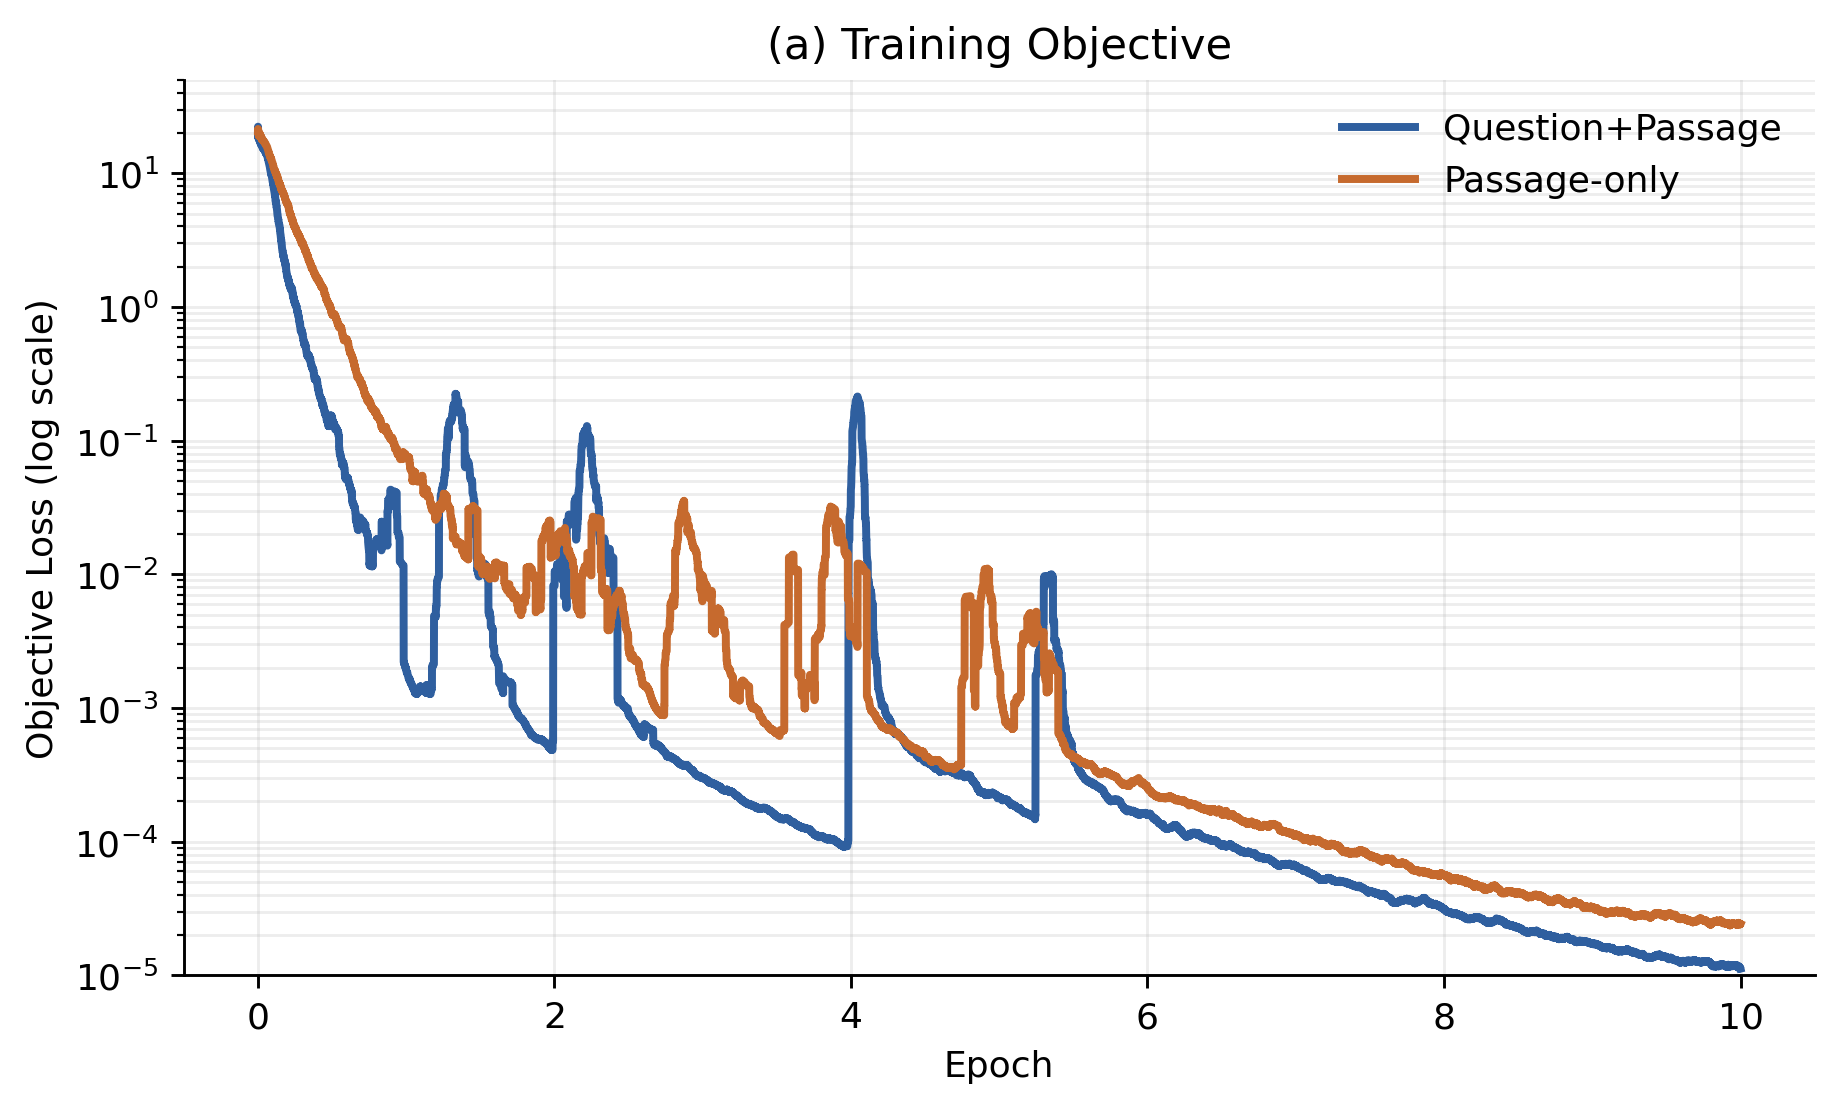
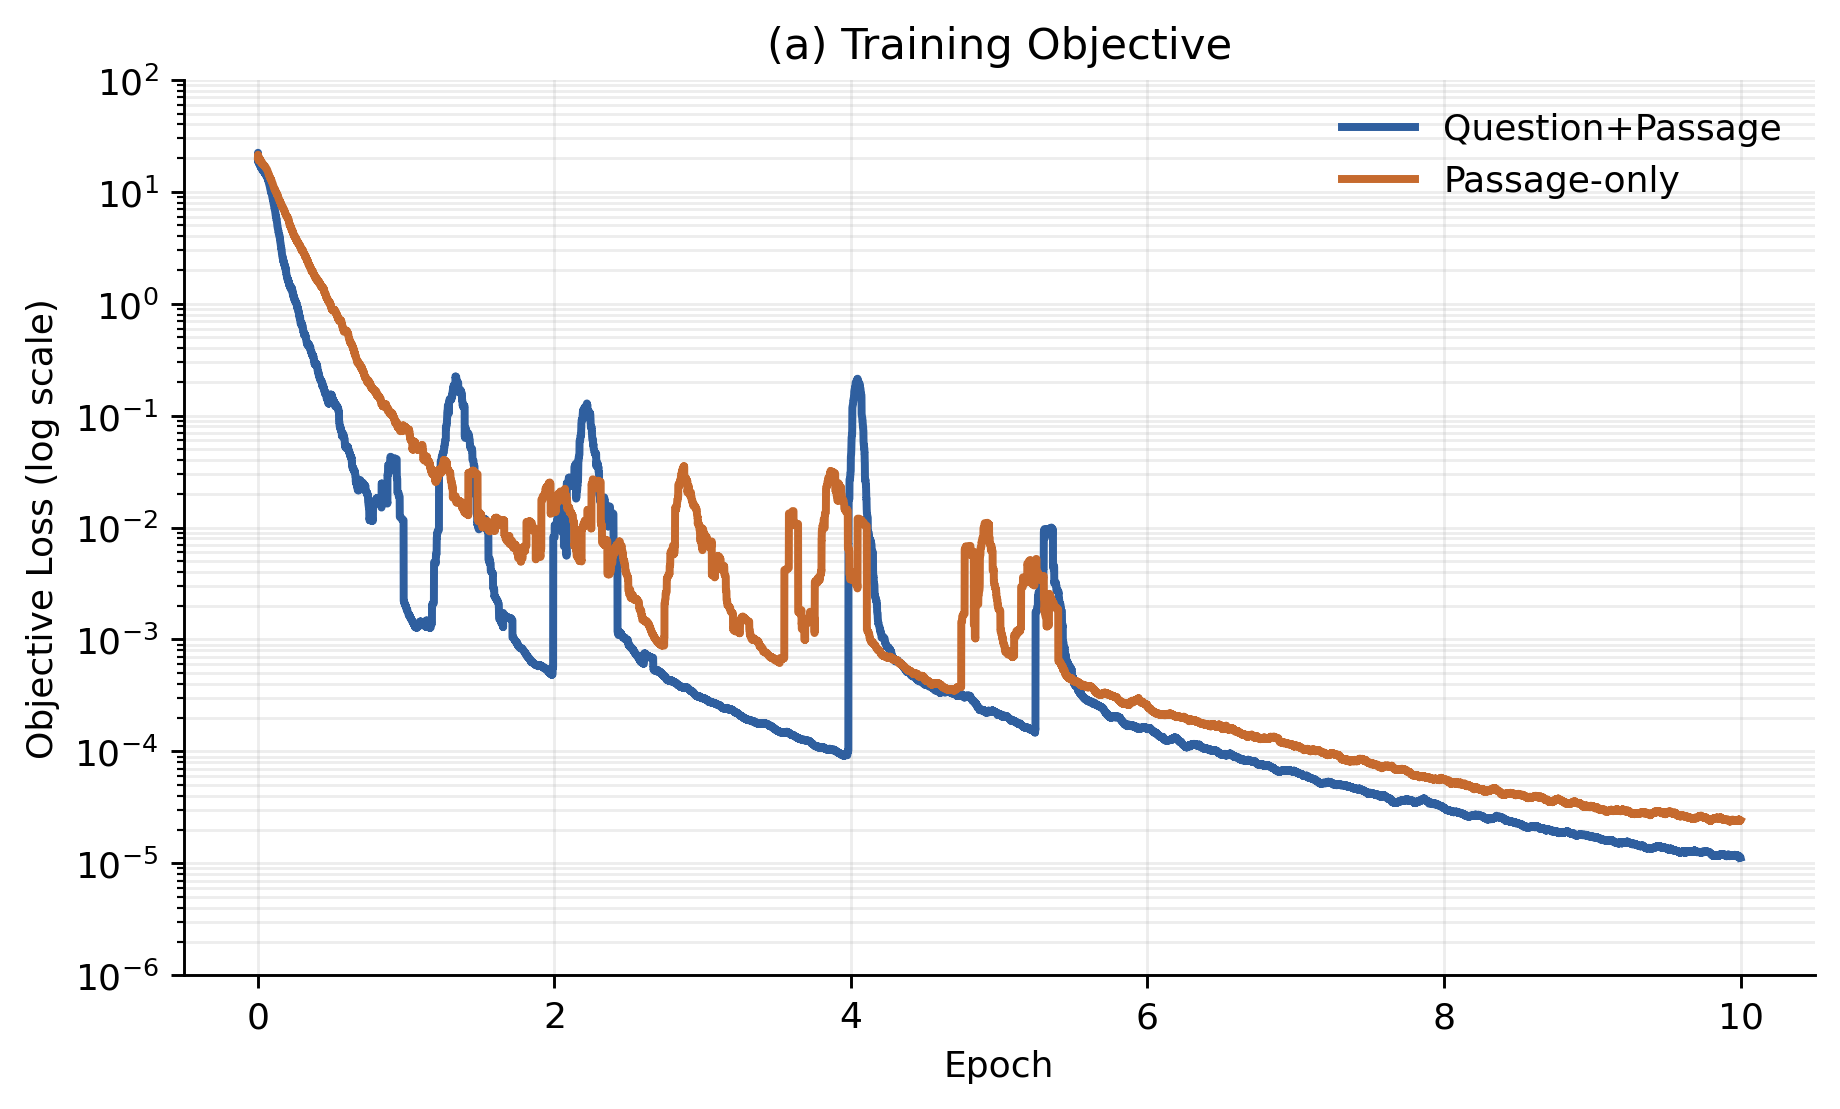
t

diff --git a/llm_server/PRAG/plot_epoch_performance.py b/llm_server/PRAG/plot_epoch_performance.py
@@ -164,7 +164,7 @@ def plot_objective_axis(ax, *, qp_log: str, ponly_log: str, colors: dict[str, st
     ax.set_ylabel("Objective Loss (log scale)")
     if qp_loss or ponly_loss:
         ax.set_yscale("log")
-        ax.set_ylim(1e-6, 100)
+        ax.set_ylim(1e-6, 200)
     style_axis(ax)
     ax.grid(True, which="both", alpha=0.22)
     if has_lines:
